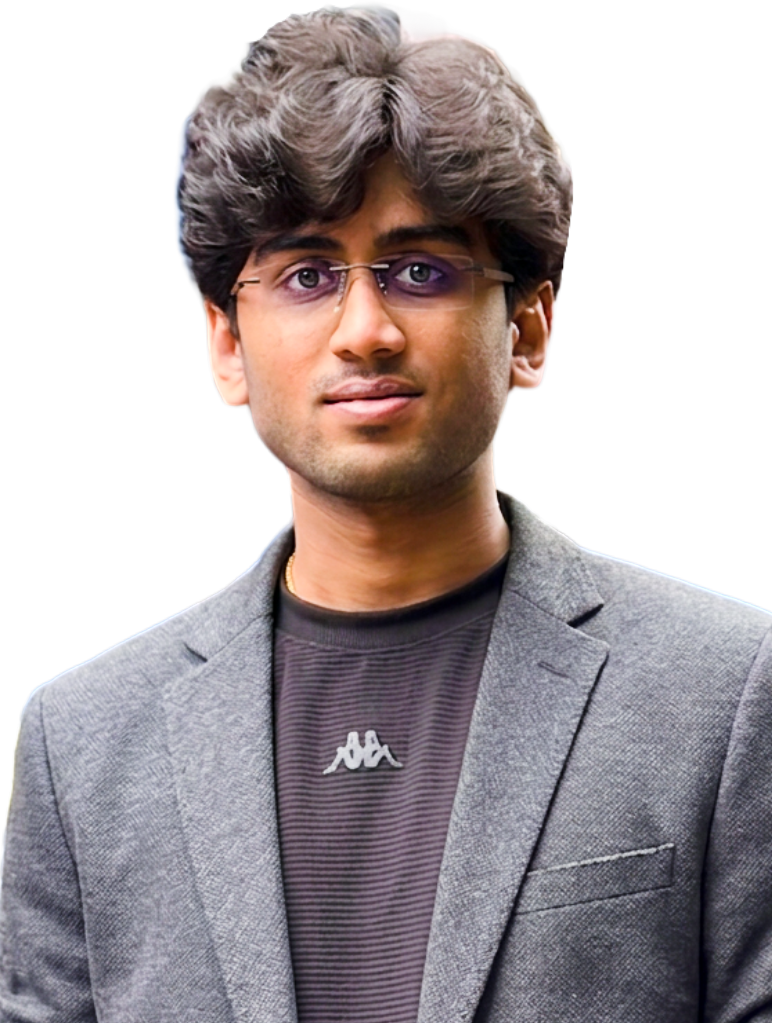
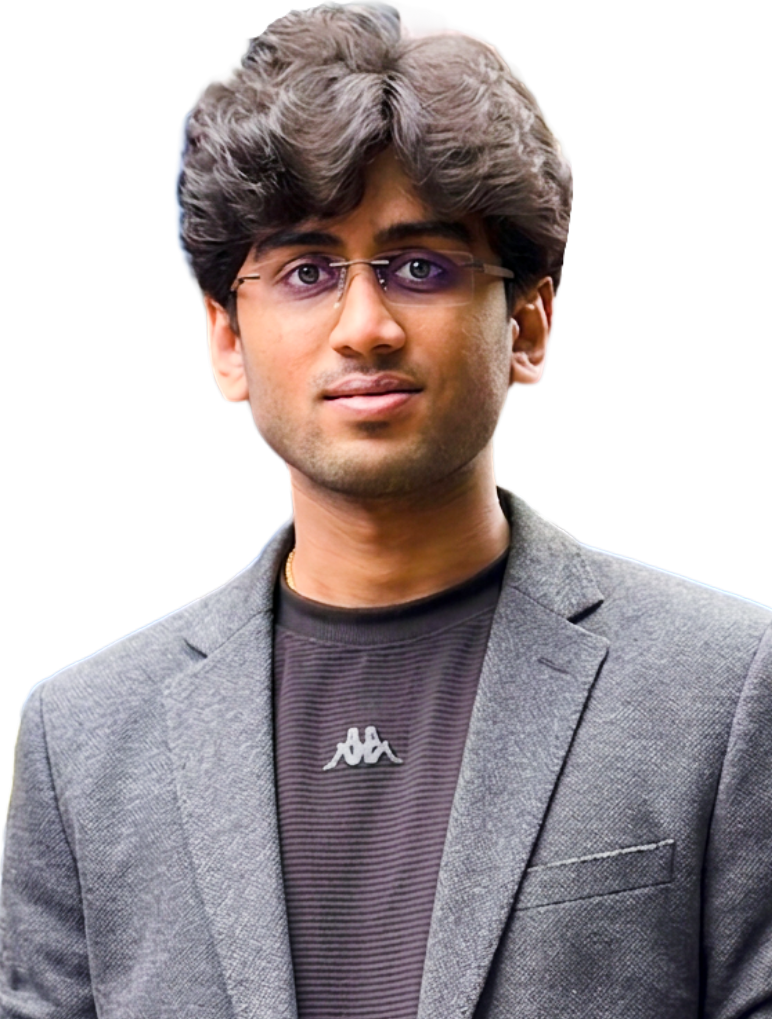
temp: layout diagnostic outlines on resume

diff --git a/resume/index.html b/resume/index.html
@@ -61,6 +61,17 @@
   .edu-item .detail .when{color:var(--red); font-size:.8rem; text-transform:uppercase; letter-spacing:.05em;}
   .foot{margin-top:48px; font-size:.85rem; color:var(--mid);}
   .foot a{border-bottom-color:#3a3a3a;}
+  /* TEMP DIAGNOSTIC — remove after gap issue is solved */
+  .identity{outline:2px solid #00ff00;}
+  .identity img{outline:2px solid #ff00ff;}
+  .identity > div{outline:2px solid #00ffff;}
+  header{outline:2px solid #ffff00;}
+  section:first-of-type{outline:2px solid #ff8800;}
+  h2{outline:2px dashed #ffffff;}
+  .contact{outline:2px solid #ff0000;}
+  .contact::after{content:'CONTACT-END'; display:block; color:#ff0000; font-size:10px;}
+  header::after{content:'HEADER-END'; display:block; color:#ffff00; font-size:10px;}
+
   @media print{
     :root{--dark:#fff; --cream:#111; --mid:#555; --red:#b00000;}
     body{padding:0; max-width:none; font-size:12px;}
